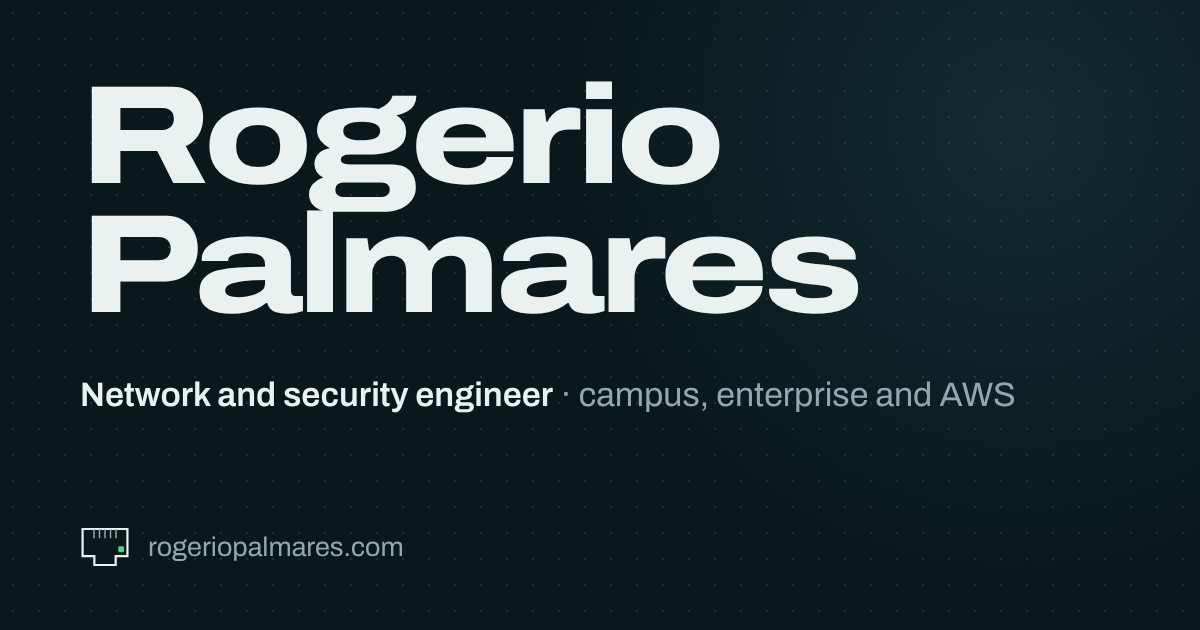
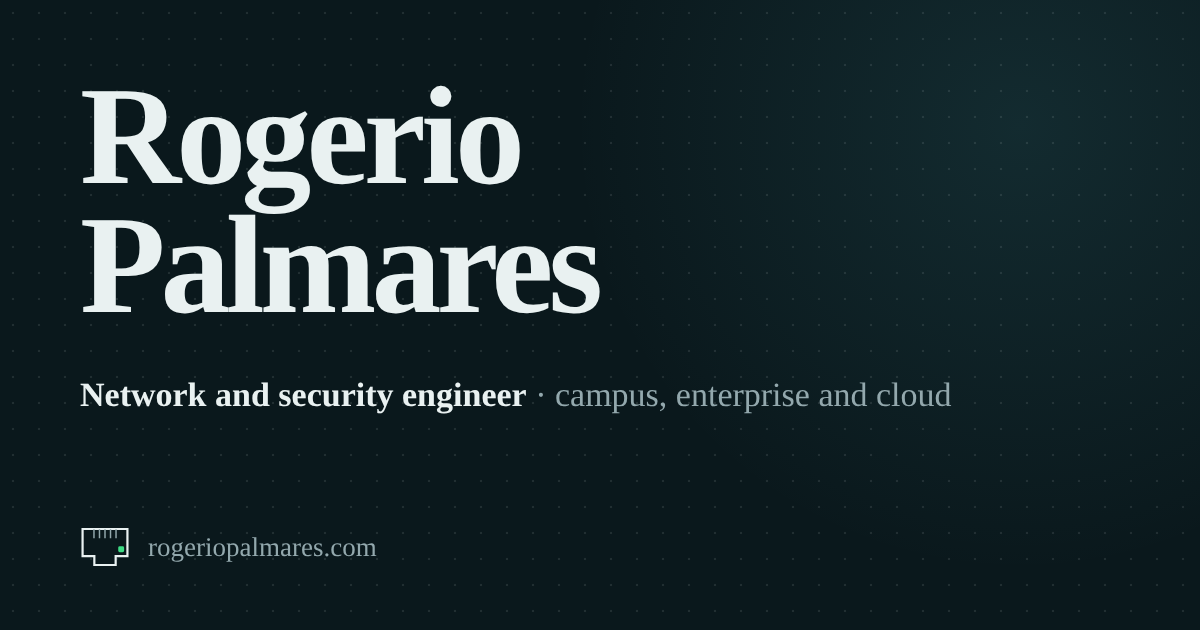
Full experience from LinkedIn; remove projects for now
- Experience covers DCU, NTT, Workhuman, AWS and Logicalis, written
  from the LinkedIn descriptions
- Projects section, nav port and styles removed; faceplate back to five
- Hero, metadata and social card broadened to AWS, Azure and OCI
- Status light aligns with the first line when the hero text wraps

Claude-Session: https://claude.ai/code/session_01C1qnUjFEWv9WqhCgWd7Tsr

Changed region(s): [[0.0617, 0.1206, 0.74, 0.5127], [0.0617, 0.6032, 0.8633, 0.6635], [0.1233, 0.8444, 0.3392, 0.9048]]

diff --git a/index.html b/index.html
@@ -4,12 +4,12 @@
   <meta charset="utf-8">
   <meta name="viewport" content="width=device-width, initial-scale=1">
   <title>Rogerio Palmares, Network and Security Engineer</title>
-  <meta name="description" content="Rogerio Palmares builds campus, enterprise and AWS networks, and the automation that runs them. Senior Network Engineer at Dublin City University, previously at AWS. Experience, projects, conference talks and certifications.">
+  <meta name="description" content="Rogerio Palmares builds campus, enterprise and cloud networks across AWS, Azure and OCI, and the automation that runs them. Senior Network Engineer at Dublin City University, previously at AWS. Experience, conference talks and certifications.">
   <link rel="canonical" href="https://rogeriopalmares.com/">
 
   <meta property="og:type" content="profile">
   <meta property="og:title" content="Rogerio Palmares, Network and Security Engineer">
-  <meta property="og:description" content="Campus, enterprise and AWS networks, and the automation that runs them. Senior Network Engineer at Dublin City University, previously at AWS.">
+  <meta property="og:description" content="Campus, enterprise and cloud networks across AWS, Azure and OCI, and the automation that runs them. Senior Network Engineer at Dublin City University, previously at AWS.">
   <meta property="og:url" content="https://rogeriopalmares.com/">
   <meta property="og:image" content="https://rogeriopalmares.com/assets/img/social-card.png">
   <meta property="og:image:width" content="1200">
@@ -29,7 +29,7 @@
     "@type": "Person",
     "name": "Rogerio Palmares",
     "jobTitle": "Senior Network Engineer",
-    "knowsAbout": ["Network engineering", "Network security", "Network automation", "AWS networking", "Zero trust network access"],
+    "knowsAbout": ["Network engineering", "Network security", "Network automation", "AWS networking", "Azure networking", "Zero trust network access"],
     "worksFor": { "@type": "CollegeOrUniversity", "name": "Dublin City University" },
     "url": "https://rogeriopalmares.com/",
     "sameAs": ["https://www.linkedin.com/in/rogeriopalmares/"],
@@ -52,12 +52,12 @@
       <h1><span>Rogerio</span> <span>Palmares</span></h1>
       <p class="intro">
         <strong>Network and security engineer.</strong>
-        Over ten years building campus, enterprise and AWS networks,
-        and the automation that runs them.
+        Over ten years building campus, enterprise and cloud networks
+        across AWS, Azure and OCI, and the automation that runs them.
       </p>
       <p class="now">
         <span class="status" aria-hidden="true"></span>
-        Currently Senior Network Engineer at Dublin City University. Previously at AWS.
+        Currently Senior Network Engineer at Dublin City University. Previously at NTT, Workhuman and AWS.
       </p>
     </header>
 
@@ -65,7 +65,6 @@
       <ul>
         <li><a href="#experience"><svg class="port" viewBox="0 0 34 28" aria-hidden="true"><path class="jack" d="M1.75 1.75h30.5v18.5h-8v6h-14.5v-6h-8z"/><path class="pins" d="M9.5 2v6M13.25 2v6M17 2v6M20.75 2v6M24.5 2v6"/><rect class="led" x="26" y="13.5" width="4" height="4" rx="1"/></svg><span class="port-label">Experience</span></a></li>
         <li><a href="#talks"><svg class="port" viewBox="0 0 34 28" aria-hidden="true"><path class="jack" d="M1.75 1.75h30.5v18.5h-8v6h-14.5v-6h-8z"/><path class="pins" d="M9.5 2v6M13.25 2v6M17 2v6M20.75 2v6M24.5 2v6"/><rect class="led" x="26" y="13.5" width="4" height="4" rx="1"/></svg><span class="port-label">Talks</span></a></li>
-        <li><a href="#projects"><svg class="port" viewBox="0 0 34 28" aria-hidden="true"><path class="jack" d="M1.75 1.75h30.5v18.5h-8v6h-14.5v-6h-8z"/><path class="pins" d="M9.5 2v6M13.25 2v6M17 2v6M20.75 2v6M24.5 2v6"/><rect class="led" x="26" y="13.5" width="4" height="4" rx="1"/></svg><span class="port-label">Projects</span></a></li>
         <li><a href="#certifications"><svg class="port" viewBox="0 0 34 28" aria-hidden="true"><path class="jack" d="M1.75 1.75h30.5v18.5h-8v6h-14.5v-6h-8z"/><path class="pins" d="M9.5 2v6M13.25 2v6M17 2v6M20.75 2v6M24.5 2v6"/><rect class="led" x="26" y="13.5" width="4" height="4" rx="1"/></svg><span class="port-label">Certifications</span></a></li>
         <li><a href="#education"><svg class="port" viewBox="0 0 34 28" aria-hidden="true"><path class="jack" d="M1.75 1.75h30.5v18.5h-8v6h-14.5v-6h-8z"/><path class="pins" d="M9.5 2v6M13.25 2v6M17 2v6M20.75 2v6M24.5 2v6"/><rect class="led" x="26" y="13.5" width="4" height="4" rx="1"/></svg><span class="port-label">Education</span></a></li>
         <li><a href="#contact"><svg class="port" viewBox="0 0 34 28" aria-hidden="true"><path class="jack" d="M1.75 1.75h30.5v18.5h-8v6h-14.5v-6h-8z"/><path class="pins" d="M9.5 2v6M13.25 2v6M17 2v6M20.75 2v6M24.5 2v6"/><rect class="led" x="26" y="13.5" width="4" height="4" rx="1"/></svg><span class="port-label">Contact</span></a></li>
@@ -77,21 +76,45 @@
         <h2 id="experience-title">Experience</h2>
         <ol class="rows timeline">
           <li>
-            <h3>Senior Network Engineer</h3>
-            <p class="meta"><span class="org">Dublin City University</span> <span class="when">Dec 2023 to present</span></p>
-            <p class="about">Design and operation of the campus network for students and staff: wired and wireless access, network access control, firewalls, DNS and load balancing. I write the automation around it, mostly in Python and OpenTofu, and troubleshoot major outages.</p>
-            <p class="stack">ClearPass · Juniper EX, SRX and Mist · HPE Aruba wireless · FortiGate · F5</p>
+            <h3>Dublin City University</h3>
+            <p class="meta"><span class="org">Senior Network Engineer</span> <span class="when">Dec 2023 to present</span></p>
+            <p class="about">Designing, securing and operating DCU's multi-campus enterprise network, serving thousands of users, across routing, switching, firewalls and security services. The focus is network architecture, infrastructure resilience and operational automation with Python, Ansible and APIs.</p>
+            <p class="stack">Juniper EX, QFX and SRX · Aruba CX · Mist AI · FortiGate, FortiEMS and FortiAnalyzer · HPE SSE · A10 WAF · ClearPass · DNS · VMware · Azure</p>
           </li>
           <li>
-            <h3>Technical Account Manager and Cloud Support Engineer</h3>
-            <p class="meta"><span class="org">Amazon Web Services</span></p>
+            <h3>NTT</h3>
+            <p class="meta"><span class="org">Hybrid cloud networking, Azure and AWS</span></p>
+            <p class="about">Designed, implemented, automated and supported hybrid cloud network infrastructure across Azure and AWS, as part of the Cloud Network Change Team.</p>
+            <ul class="points">
+              <li>Owned the technical delivery of network and security changes: planning, documentation, change presentations, implementation and post-change validation.</li>
+              <li>Implemented changes as code, in Python with the Azure and AWS SDKs, rather than by manual configuration.</li>
+              <li>Automated firewall policy, routing controls and access restrictions; built secure B2B connectivity with partners; set up networking for new application deployments.</li>
+            </ul>
+            <p class="stack">Azure VNet, NSGs, Firewall, VPN Gateway and ExpressRoute · AWS VPC, Transit Gateway, site-to-site and client VPN · Route 53</p>
+          </li>
+          <li>
+            <h3>Workhuman</h3>
+            <p class="meta"><span class="org">Cloud infrastructure, AWS and OCI</span></p>
+            <p class="about">Operated, managed and optimised large-scale public cloud deployments across AWS and OCI, supporting millions of end users and the internal processes of hundreds of staff.</p>
+            <ul class="points">
+              <li>Technical lead for troubleshooting hybrid connectivity over AWS Direct Connect, OCI FastConnect and Megaport for highly available web applications and databases.</li>
+              <li>Provisioned and managed CloudFront, WAF, Lambda, Transit Gateway and Network Firewall as code through GitLab CI/CD pipelines.</li>
+              <li>Reduced AWS costs across development, pre-production and production accounts: deployed the CUDOS cost dashboard, migrated hundreds of EBS volumes and EC2 instances, and rightsized S3 storage.</li>
+              <li>Designed migration strategies for on-premises applications using event-driven and serverless patterns, and wrote Python Lambda functions for integrations and automated workflows.</li>
+            </ul>
+            <p class="stack">Terraform · CloudFormation · GitLab CI/CD · Python</p>
+          </li>
+          <li>
+            <h3>Amazon Web Services</h3>
+            <p class="meta"><span class="org">Technical Account Manager and Cloud Support Engineer</span></p>
             <p class="about">As a Cloud Support Engineer I was a subject matter expert for AWS Direct Connect, working through customers' hybrid connectivity problems between their own networks and AWS. As a Technical Account Manager I was the technical point of contact for customer accounts.</p>
             <p class="stack">Direct Connect · VPC · BGP</p>
           </li>
           <li>
-            <h3>Earlier roles</h3>
-            <p class="meta"><span class="org">Logicalis · NTT · Workhuman</span></p>
-            <p class="about">Network roles at a systems integrator, a global service provider and a software company. Titles and dates are on <a href="https://www.linkedin.com/in/rogeriopalmares/">LinkedIn</a>.</p>
+            <h3>Logicalis</h3>
+            <p class="meta"><span class="org">Enterprise and service provider networks</span></p>
+            <p class="about">Designed, deployed and migrated enterprise network infrastructure for more than ten enterprise and service provider customers, working with networking, data centre and security teams from requirements and traffic analysis through HLD and LLD to implementation.</p>
+            <p class="stack">Cisco Catalyst, Nexus, ASR and ISR · F5 · Cisco UCS and Dell PowerEdge · VMware and KVM · Red Hat Linux</p>
           </li>
         </ol>
       </section>
@@ -115,32 +138,6 @@
             <svg class="go" viewBox="0 0 24 24" aria-hidden="true"><path d="M7 17 17 7M9 7h8v8"/></svg>
             <p>HEAnet Conference, 2024</p>
             <p class="about">How DCU rolled out network access control in phases, so that only authorised users and devices get onto the wired and wireless network. At the time, it handled about 300,000 authentication requests a day from 19,000 endpoints.</p>
-          </li>
-        </ul>
-      </section>
-
-      <section class="section" id="projects" aria-labelledby="projects-title">
-        <h2 id="projects-title">Selected projects</h2>
-        <ul class="rows cards">
-          <li>
-            <h3>Certificate renewal for appliances without ACME</h3>
-            <p class="about">Let's Encrypt certificates issued through DNS validation against the university's DNS platform, then installed on network appliances that have no ACME client of their own. On one platform this meant finding and using an undocumented REST endpoint. Renewals now run unattended and report by email.</p>
-            <p class="stack">Python · certbot · Docker · REST APIs</p>
-          </li>
-          <li>
-            <h3>Juniper Mist as code</h3>
-            <p class="about">Brought an existing Mist organisation under OpenTofu by importing live configuration rather than rewriting it, so switch and site templates can be reviewed as code and reproduced for new buildings.</p>
-            <p class="stack">OpenTofu · Mist API · Git</p>
-          </li>
-          <li>
-            <h3>One-step blocking for security incidents</h3>
-            <p class="about">Self-service jobs that block a malicious IP range through remotely triggered black hole routing, or a domain through a DNS response policy zone, with metadata kept for every entry so blocks can be audited and reversed.</p>
-            <p class="stack">Python · Rundeck · RTBH · DNS RPZ</p>
-          </li>
-          <li>
-            <h3>User to switch port lookup</h3>
-            <p class="about">Given a user, returns the switch and port their device is connected to right now, from ClearPass session data. Turns a slow trace through logs into a single query.</p>
-            <p class="stack">Python · ClearPass API</p>
           </li>
         </ul>
       </section>

diff --git a/assets/css/site.css b/assets/css/site.css
@@ -173,7 +173,7 @@ a:hover { text-decoration-thickness: 2px; }
 
 .hero .now {
   display: flex;
-  align-items: center;
+  align-items: flex-start;
   gap: 0.6rem;
   margin: 1.1rem 0 0;
   color: var(--slate);
@@ -183,6 +183,7 @@ a:hover { text-decoration-thickness: 2px; }
   flex: none;
   width: 0.5rem;
   height: 0.5rem;
+  margin-top: 0.5em;
   border-radius: 2px;
   background: var(--led-on);
   box-shadow: 0 0 6px rgba(61, 220, 132, 0.8);
@@ -222,7 +223,7 @@ a:hover { text-decoration-thickness: 2px; }
   margin: 0;
   padding: 0;
   display: grid;
-  grid-template-columns: repeat(6, 1fr);
+  grid-template-columns: repeat(5, 1fr);
 }
 .faceplate li + li { border-left: 1px solid var(--rule); }
 
@@ -285,7 +286,6 @@ a:hover { text-decoration-thickness: 2px; }
 .faceplate.boot li:nth-child(3) .led { animation-delay: 0.65s; }
 .faceplate.boot li:nth-child(4) .led { animation-delay: 0.80s; }
 .faceplate.boot li:nth-child(5) .led { animation-delay: 0.95s; }
-.faceplate.boot li:nth-child(6) .led { animation-delay: 1.10s; }
 @keyframes boot {
   0%   { fill: var(--led-off); }
   10%  { fill: var(--led-test); }
@@ -445,12 +445,23 @@ main { counter-reset: port; }
 .rows .when { color: var(--slate); }
 
 .rows p.stack {
+  max-width: 36rem;
   margin-top: 0.7rem;
   font-size: 0.875rem;
   letter-spacing: 0.01em;
   color: var(--link);
   opacity: 0.85;
 }
+
+.rows ul.points {
+  max-width: 36rem;
+  margin: 0.6rem 0 0;
+  padding-left: 1.1rem;
+  color: var(--ink);
+  opacity: 0.86;
+}
+.rows ul.points li::marker { color: var(--link); }
+.rows ul.points li + li { margin-top: 0.4rem; }
 
 /* Experience: a run of fibre with a node per role */
 
@@ -487,28 +498,6 @@ main { counter-reset: port; }
   border-color: var(--led-on);
   box-shadow: 0 0 8px rgba(61, 220, 132, 0.7);
 }
-
-/* Projects: modules in a chassis */
-
-.cards {
-  display: grid;
-  grid-template-columns: repeat(auto-fill, minmax(17.5rem, 1fr));
-  gap: 1rem;
-}
-.rows.cards > li + li { margin-top: 0; }
-.cards > li {
-  display: flex;
-  flex-direction: column;
-  padding: 1.2rem 1.25rem 1.1rem;
-  background: var(--panel);
-  border: 1px solid var(--rule);
-  border-radius: var(--radius);
-  transition: border-color 150ms ease;
-}
-.cards > li:hover { border-color: #3a5f69; }
-.cards h3 { font-size: clamp(1.1rem, 1.8vw, 1.25rem); }
-.cards p.about { margin-top: 0.55rem; font-size: 0.975rem; }
-.cards p.stack { margin-top: auto; padding-top: 0.9rem; }
 
 /* ---------- Contact ---------- */
 
@@ -613,7 +602,6 @@ main { counter-reset: port; }
   .timeline { margin-left: 0; padding-left: 1.4rem; }
   .timeline > li::before { left: -1.4rem; }
   .timeline::before { left: 0.25rem; }
-  .cards { grid-template-columns: 1fr; }
 }
 
 @media (prefers-reduced-motion: reduce) {
@@ -627,7 +615,6 @@ main { counter-reset: port; }
 
 @media print {
   .faceplate, .skip, .stage, .backdrop, .progress, .copy, .go, .status { display: none; }
-  .cards > li { background: none; break-inside: avoid; }
   .hero h1 { background: none; -webkit-text-fill-color: currentColor; }
   :root { --paper: #fff; --ink: #000; --slate: #333; --rule: #bbb; --link: #000; }
 }
